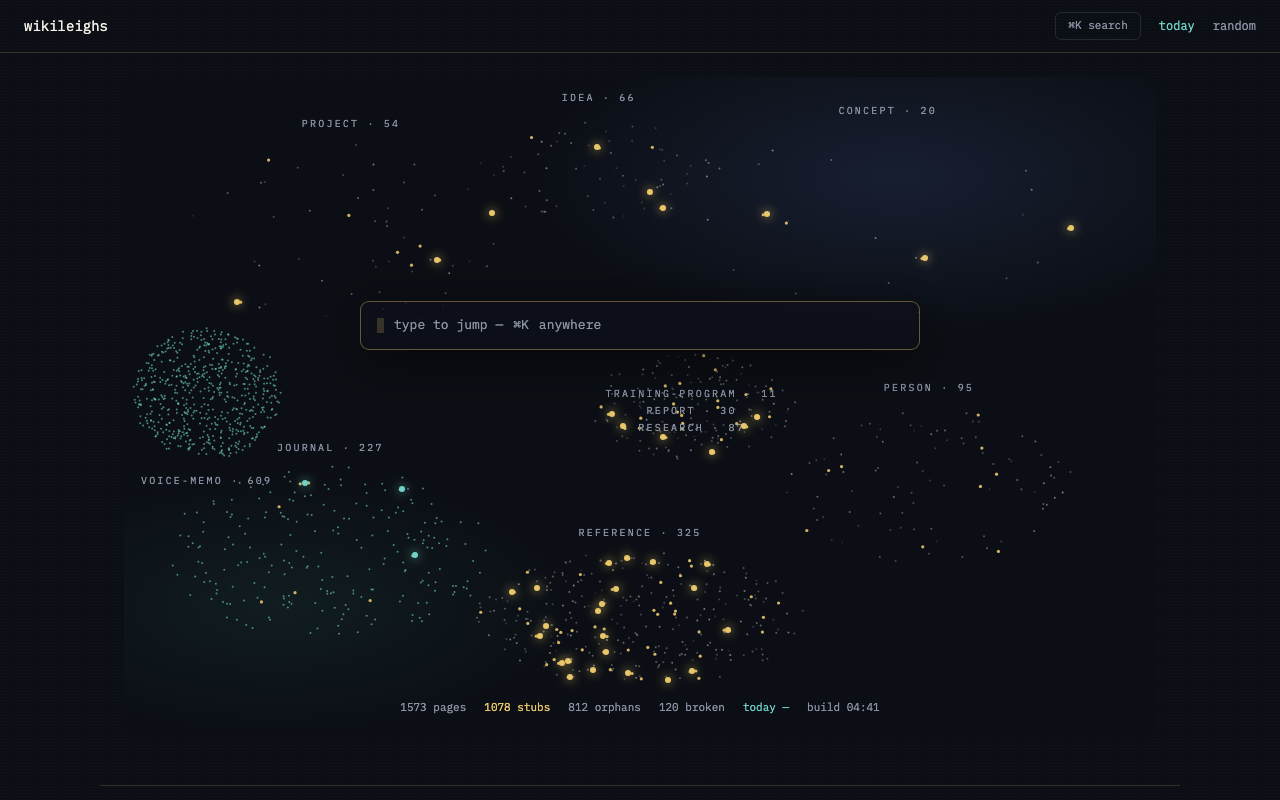
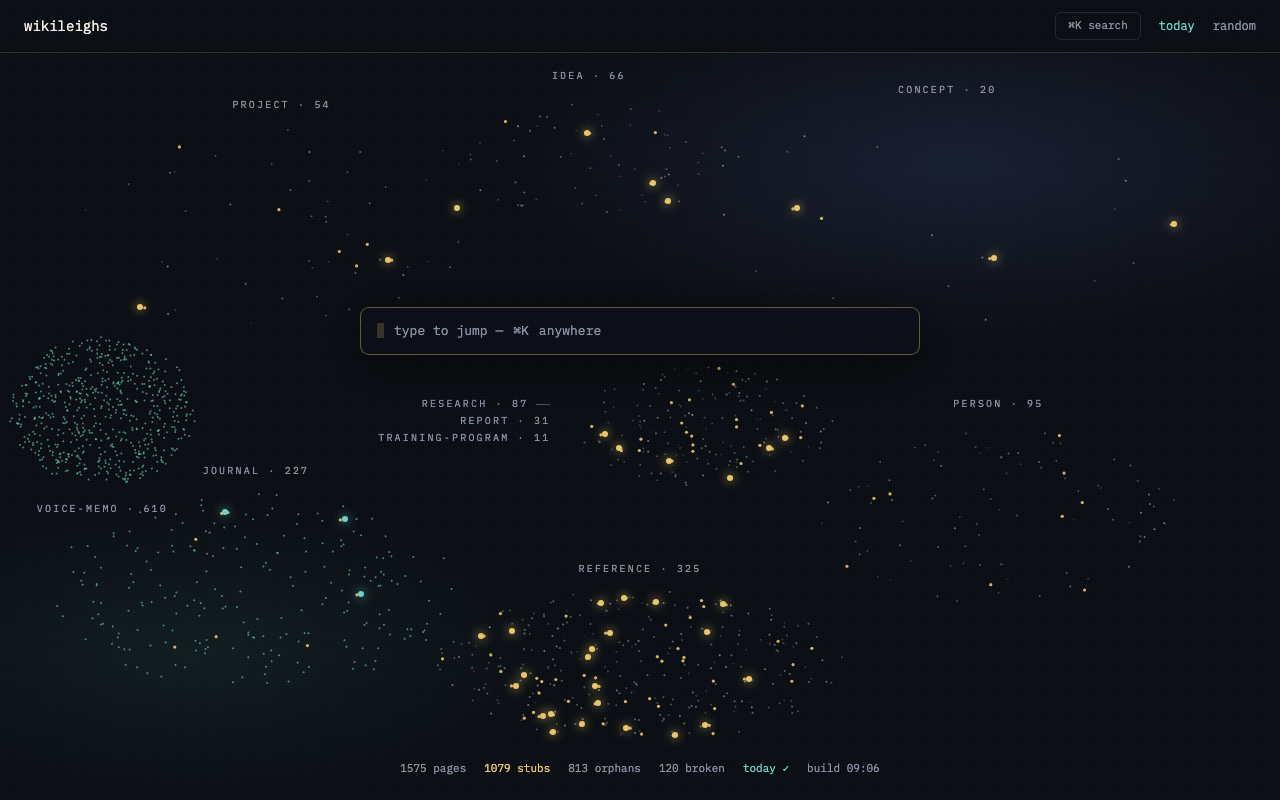
fix(redesign): full-bleed homepage sky + misc label nudge (feedback round 1)
Items 1+2: the sky was a rounded 1080px box inside .main-col — on
ultrawide, a huge grain-textured ink field surrounded a visibly
different panel (jarring seam, wasted width). The homepage now renders
main as .main-bleed (Base `bleed` prop): the sky spans the full
viewport under the topbar, radius 0, height 100vh-53px, and carries
the body grain dots as its own top background layer so texture is
continuous across every edge. Nebula ellipses and cluster/star
positions are %-based, so the constellation spreads across the whole
width — verified 1280x800, 2560x1080, 3440x1440 (no horizontal
overflow, palette/status stay centered). Mobile keeps the sampled sky.

T12 re-check: the stacked misc labels (RESEARCH/REPORT/TRAINING-
PROGRAM) overprinted the misc cluster's stars at every width (measured
at 1280: rows y 309-359 inside star band x 464-671 / y 277-383). The
stack is now a right-aligned column in the open ink LEFT of the
cluster (right edge 43%, rows from 46% down, row 0 carries a leader
dash pointing at the cluster). Measured clear of stars, palette band,
and the JOURNAL label at 1280/2560/3440; <=640px keeps the old
centered regime above the palette. Geometry moved to global.css;
index.astro emits only --row for shared labels.

Evidence: screenshots/redesign/home-{desktop,ultrawide,mobile}.png

diff --git a/src/styles/global.css b/src/styles/global.css
@@ -426,6 +426,9 @@ body {
   color: var(--t-muted); font-family: var(--font-mono); font-size: 11px; padding: 4px 12px; cursor: pointer; }
 .search-chip:hover { border-color: var(--gold-soft); color: var(--t-body); }
 .main-col { max-width: 1080px; margin: 0 auto; padding: 24px; }
+/* Full-bleed main (homepage sky): the sky IS the page, so no max-width box
+   around it — Base.astro swaps this in via the `bleed` prop. */
+.main-bleed { width: 100%; }
 .page-footer { max-width: 1080px; margin: 24px auto 32px; padding: 12px 24px;
   border-top: 1px solid var(--gold-hairline); color: var(--t-muted);
   font-family: var(--font-mono); font-size: 11px; }
@@ -433,8 +436,15 @@ body {
 .footer-pinned { margin-top: 4px; opacity: .8; }
 
 /* ---- Constellation homepage (spec §3) ---- */
-.sky { position: relative; height: calc(100vh - 140px); min-height: 480px; overflow: hidden;
-  border-radius: 12px; background:
+/* Full-bleed (feedback round 1): the sky spans the viewport edge-to-edge —
+   no rounded box inside a visibly different ink field. Height fills the
+   viewport below the topbar (53px measured); the footer sits under the fold.
+   The first background layer repeats the body .grain dots so the texture is
+   continuous across the topbar seam instead of "image vs rest". Nebula
+   ellipses are %-based, so they scale with the viewport on ultrawide. */
+.sky { position: relative; height: calc(100vh - 53px); min-height: 480px; overflow: hidden;
+  background:
+    radial-gradient(rgba(255, 255, 255, 0.028) 1px, transparent 1px) 0 0 / 3px 3px,
     radial-gradient(ellipse 60% 40% at 75% 15%, rgba(88, 118, 200, 0.16), transparent 60%),
     radial-gradient(ellipse 50% 35% at 15% 80%, rgba(64, 160, 150, 0.10), transparent 60%),
     var(--ink); }
@@ -443,12 +453,25 @@ body {
   font-size: 10px; letter-spacing: 0.22em; color: var(--t-muted); text-decoration: none;
   white-space: nowrap; }
 .cluster-label:hover { color: var(--gold); }
-/* Shared-center (misc) label column: on narrow viewports the desktop slot
-   collides with neighboring labels (px-wide text vs %-scaled positions), so
-   the column moves to the empty band between the top labels and the palette.
-   !important intentionally beats the inline desktop top. */
+/* Shared-center (misc) rows: a right-aligned column in the open ink LEFT of
+   the misc cluster — rows centered on the cluster overprinted its stars
+   (feedback round 1, measured at 1280×800: rows y 309–359 sat inside the
+   star band x 464–671 / y 277–383). Right edge at 43% clears the cluster's
+   left rim (45%); top 46% clears the palette band (34% + button height, for
+   any sky ≥ 408px tall); bottom row ends ≈51%, above the JOURNAL label at
+   55%. Row 0 (.stacked-lead) carries a leader dash pointing at the cluster
+   it names. Geometry lives here — index.astro emits only --row. */
+.cluster-label.stacked { left: auto; right: 57%; transform: none;
+  top: calc(46% + var(--row) * 17px); }
+.cluster-label.stacked-lead::after { content: ''; display: inline-block; width: 14px;
+  height: 1px; background: currentColor; opacity: 0.5; margin-left: 8px; vertical-align: middle; }
+/* Narrow viewports: px-wide text vs %-scaled positions collides with the
+   voice-memo cluster, so the column moves to the empty band between the top
+   labels and the palette (centered — the leader dash would point at nothing). */
 @media (max-width: 640px) {
-  .cluster-label.stacked { top: calc(20% + var(--row) * 17px) !important; }
+  .cluster-label.stacked { left: 55%; right: auto; transform: translateX(-50%);
+    top: calc(20% + var(--row) * 17px); }
+  .cluster-label.stacked-lead::after { display: none; }
 }
 .star-dom { position: absolute; width: 24px; height: 24px; transform: translate(-50%, -50%); border-radius: 50%; }
 .star-dom::after { content: ''; position: absolute; inset: 9px; border-radius: 50%;
